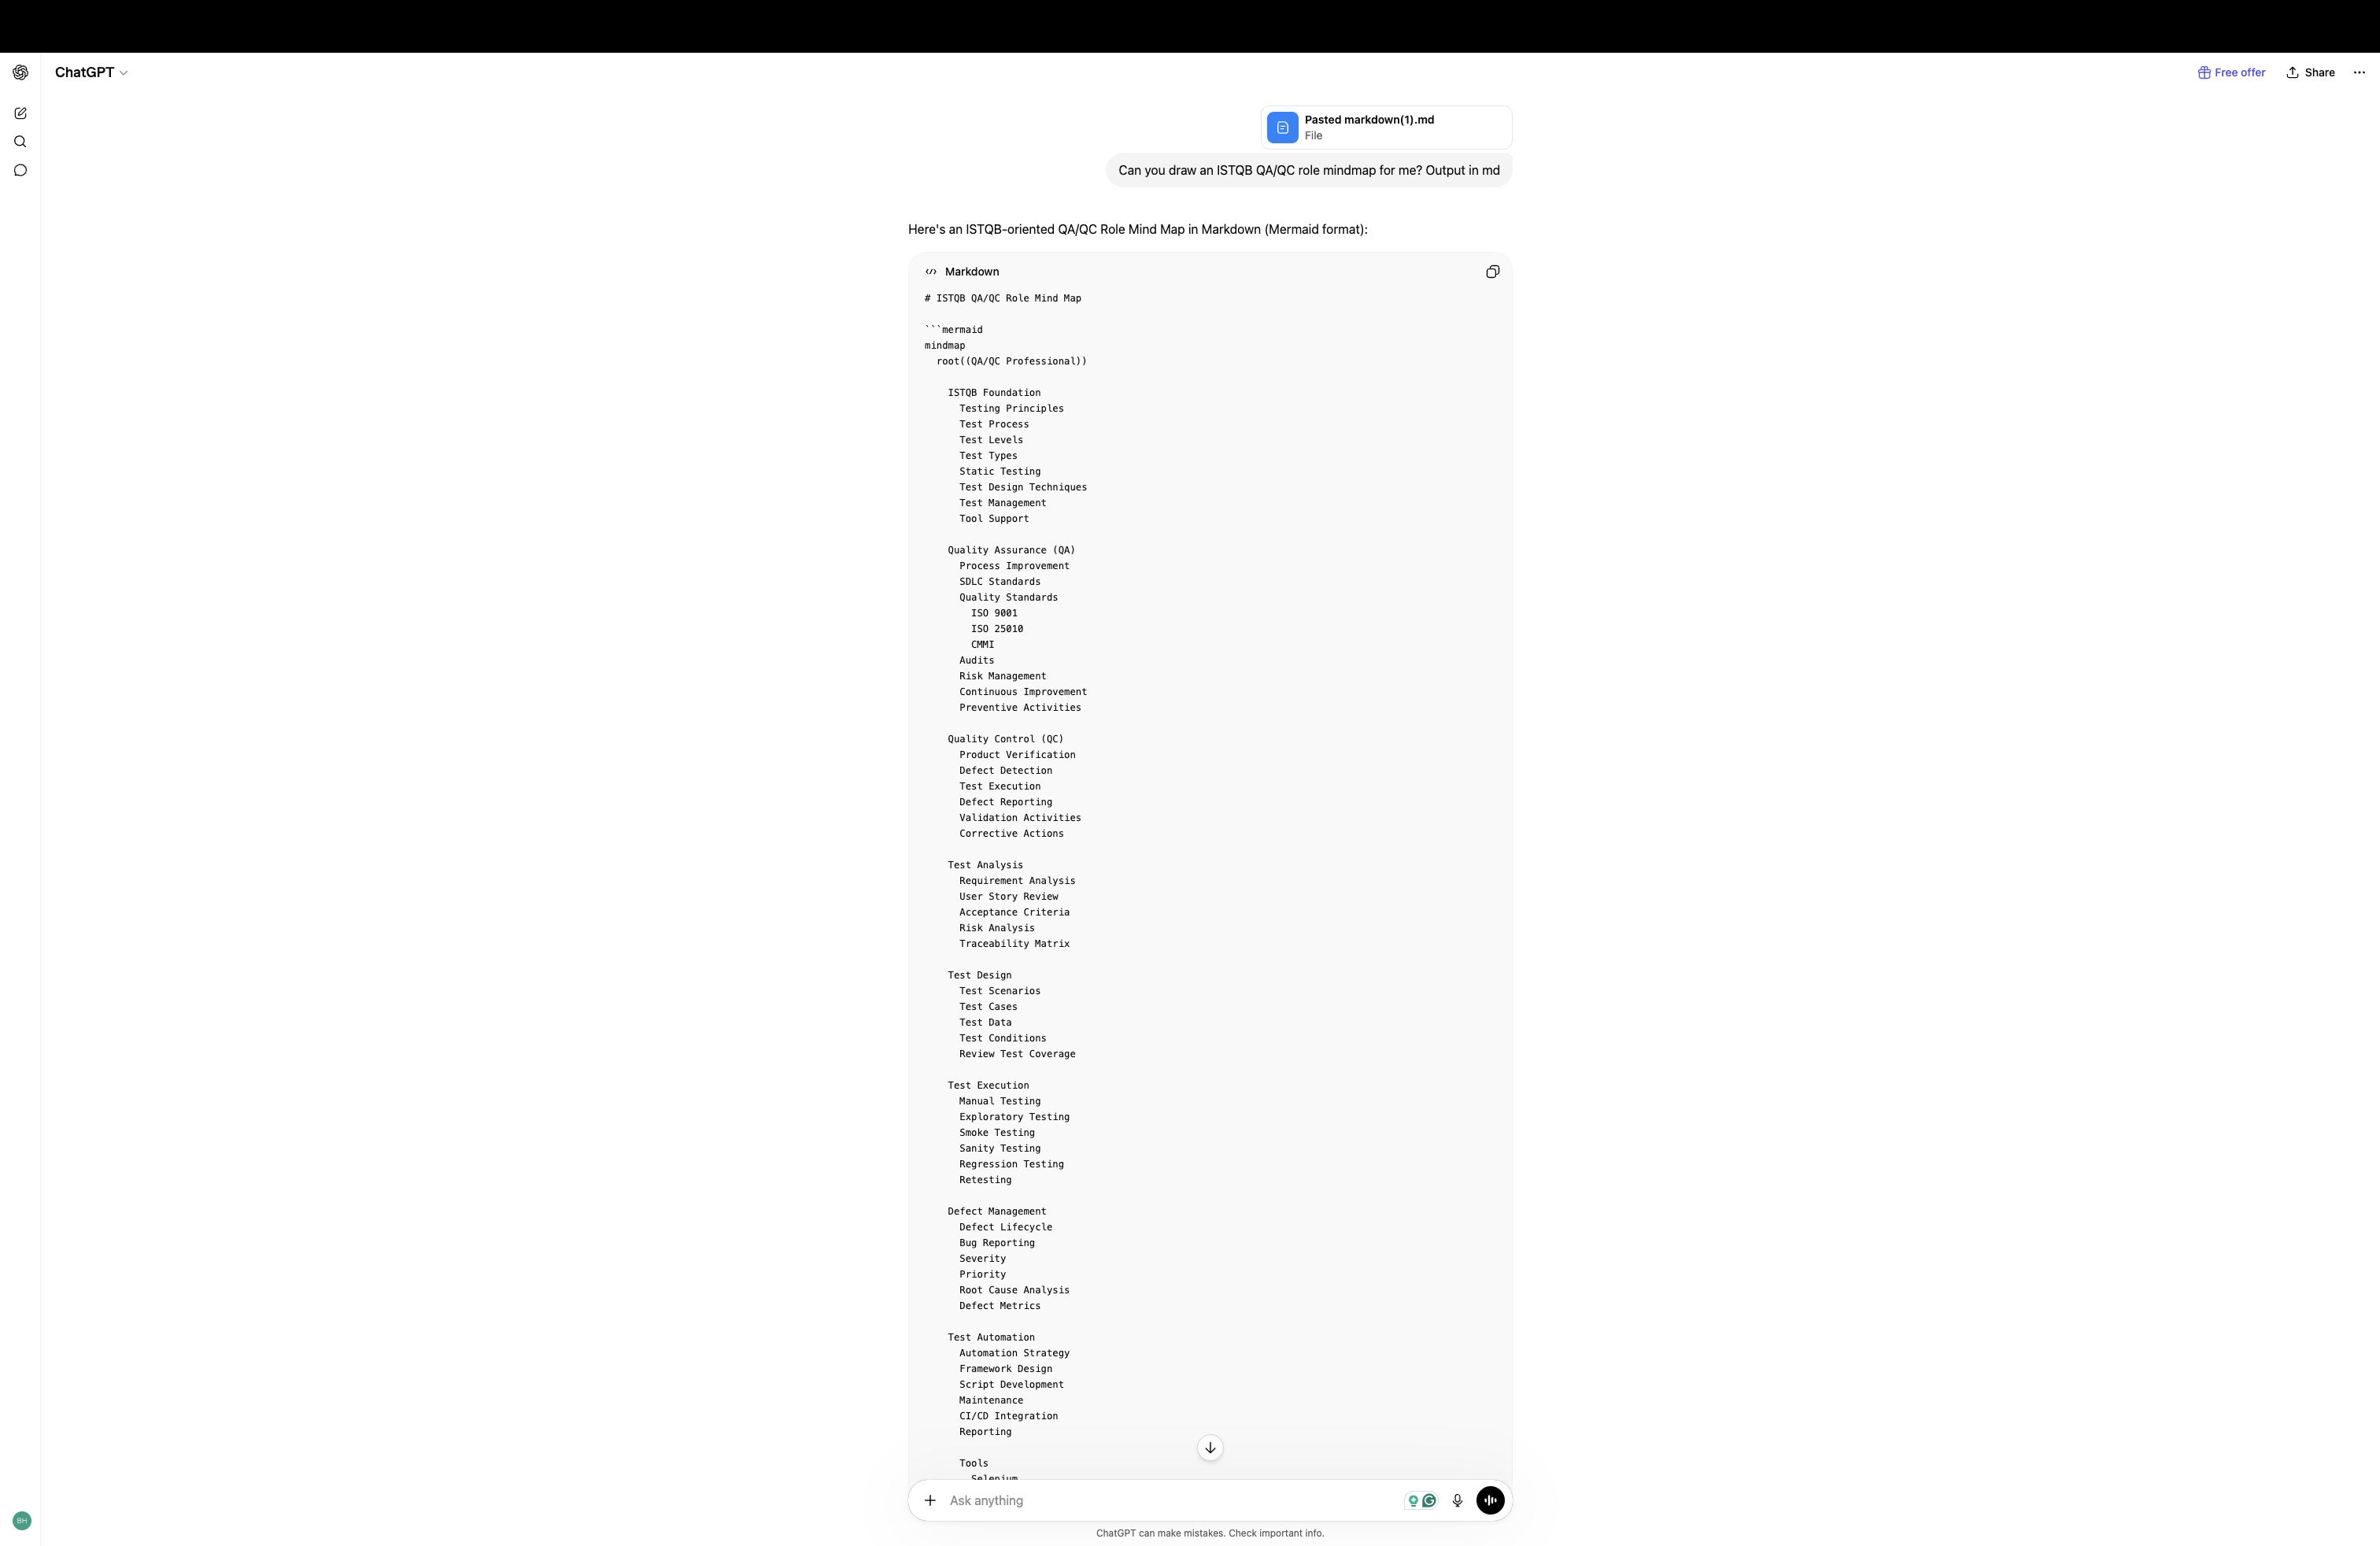
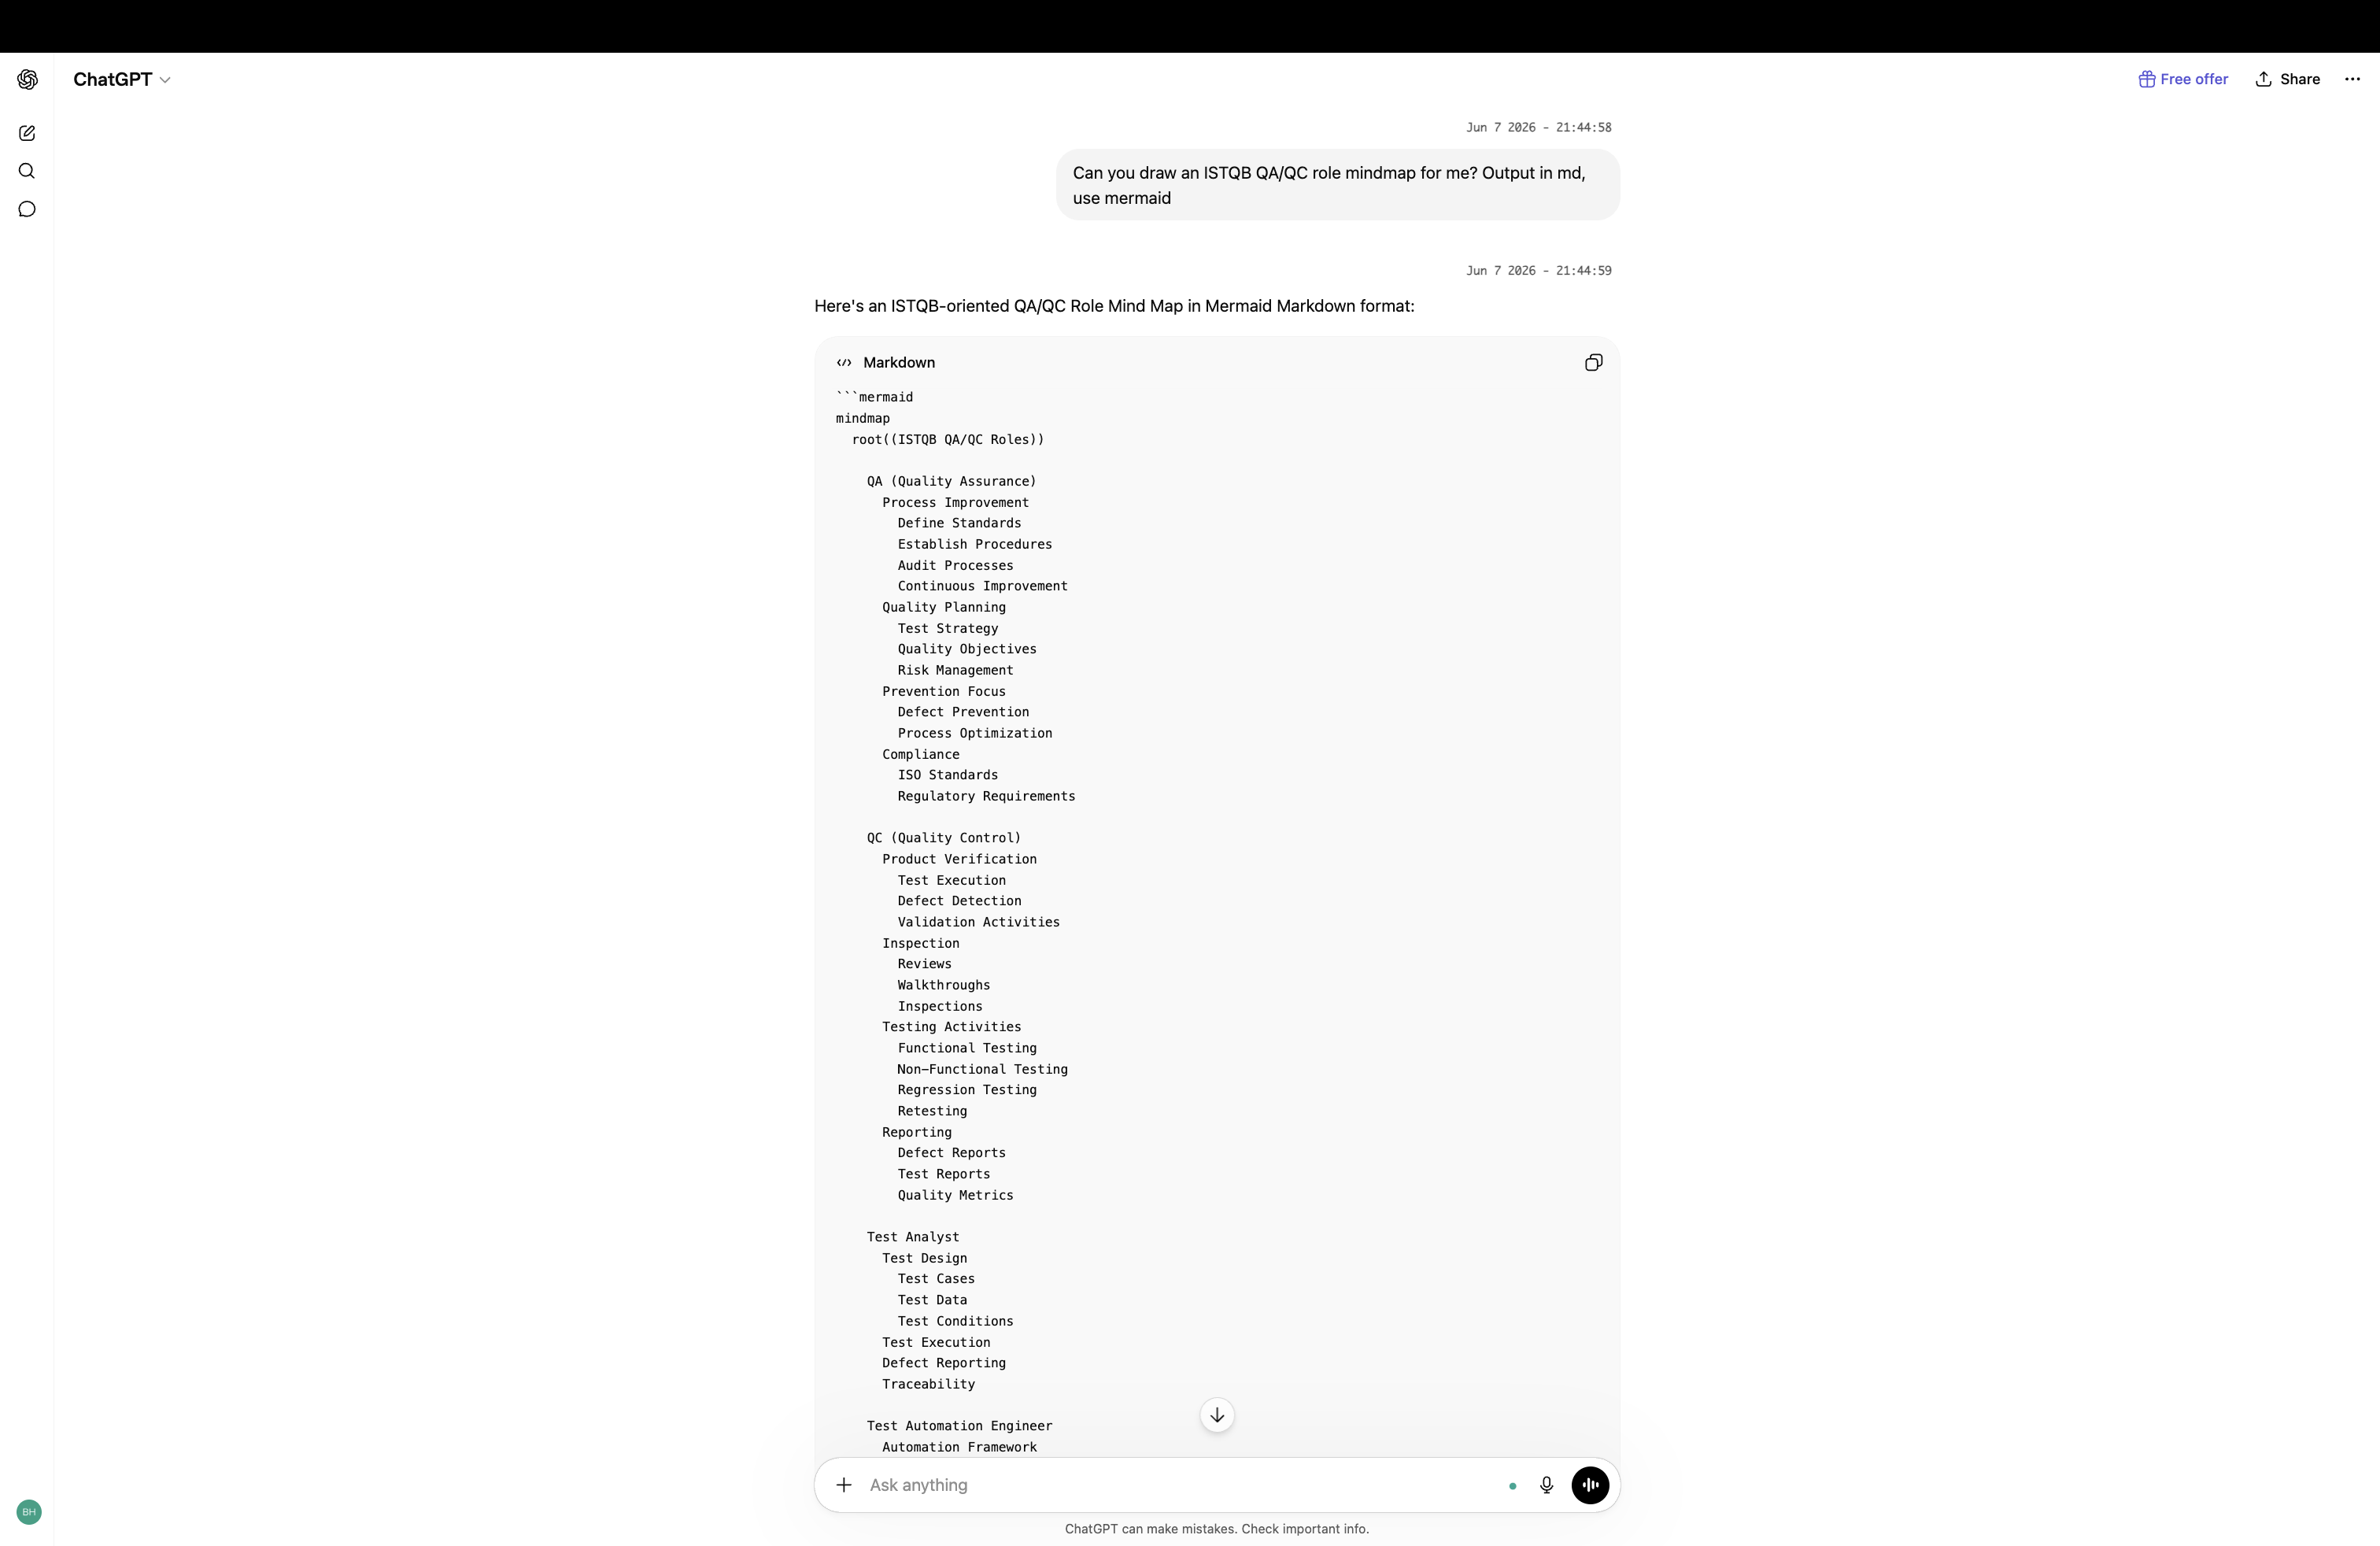
docs: update prompt log with complete conversation and notes

diff --git a/prompt_log.md b/prompt_log.md
@@ -266,7 +266,7 @@ Below is the complete chronological log of all prompts sent to AI tools during t
 
 ### ChatGPT
 
-**1. Timestamp: 22:36:45 05/06/2026**
+**1. Timestamp: 22:36 05/06/2026**
 **Prompt:**
 > explain these concepts for me:
 > - Air Canada Chatbot Hallucination (Moffatt v. Air Canada)
@@ -297,16 +297,14 @@ Below is the complete chronological log of all prompts sent to AI tools during t
 ![Red-bordered AI Output](./screenshots/prompt_log/chatgpt/7.png)
 ![Red-bordered AI Output](./screenshots/prompt_log/chatgpt/8.png)
 
-**2. Timestamp: 08:57:18 06/06/2026**
+**2. Timestamp: 21:44 07/06/2026** 
 **Prompt:**
-> Pasted markdown(1).md
-> File
-> Can you draw an ISTQB QA/QC role mindmap for me? Output in md
+> Can you draw an ISTQB QA/QC role mindmap for me? Output in md, use mermaid
 **Output:**
 ![Red-bordered AI Output](./screenshots/prompt_log/chatgpt/1.png)
 ![Red-bordered AI Output](./screenshots/prompt_log/chatgpt/2.png)
 
-**3. Timestamp: 09:54:40 06/06/2026**
+**3. Timestamp: 09:54 06/06/2026**
 **Prompt:**
 > design 15 test cases  Objective / Input / Steps / Expected / Actual / Verdict) for my household device: a pedestal fan
 **Output:**
@@ -357,29 +355,26 @@ Below is the complete chronological log of all prompts sent to AI tools during t
 **Output:**
 ![Red-bordered AI Output](./screenshots/prompt_log/gemini/7.png)
 
-
-**21. Timestamp: 07/06/2026**
-**Prompt:**
-> okay, for the requirement 3, i added here test_case_output.txt, the AI output and what to adjust, also i added the excel file for the test case, in Bản sao của KCPM-Week02-Test Cases-Template.xlsx, fill it in for me, the homework only mention the test cases, test summary report and checklist tab so dont need to fill in all, also i dont get whats the checklist in that requirement so its up to you. and i added the student id + device pic IMG_1424.JPG, the video i will record later. do the requirement 3 first, also read the ___2026.Homework.Policies (1).pdf, from what i get the requirement 3 will mostly in excel but the summary table in the report right?
-**Output:**
-> Claude Code reviewed the Requirement 3 materials and identified that the detailed work can stay in Excel, but the summary table must also be copied into the Markdown report according to the homework policy PDF.
-
-**22. Timestamp: 07/06/2026**
-**Prompt:**
-> first the checklist is really not in the template, so use your knowledge about testing to generate one, the tab must have the styles consistent with other tabs. Also the device to test is mitsubishi lv16rm, it cannot adjust the height and when we block its Oscillation by hand, after releasing it will continue to reach the max oscillation angle, write the expected as we want it to rotate the opposite after releasing so the test will fail. also after you're done update the prompt log accordingly prompt_log.md
-**Output:**
-> Claude Code generated a Requirement 3 workbook update plan based on the real device (Mitsubishi LV16-RM), then filled the Excel workbook’s relevant tabs (`Test Cases`, `Test Summary Report`, `Prompt History`) and added a new styled `Checklist` tab. It also updated the markdown report summary to include the Requirement 3 summary table and recorded the known oscillation-recovery failure as a deliberate failed case. The prompt log was then updated to reflect this Requirement 3 assistance session.
-
-
-**23. Timestamp: 07/06/2026**
-**Prompt:**
-> ok give me the script and also export it to md for easier look, and also in vietnamese. and then continue to document in prompt log
-**Output:**
-> Claude Code generated a Vietnamese speaking script for 5 Requirement 3 fan-test videos, exported it to `req3_video_script_vi.md`, and appended this new support step to `prompt_log.md`.
-
-### Antigravity IDE (Gemini 3.1 Pro)
 **Timestamp: 23:29 06/06/2026**
 **Prompt:**
 > read 2026.HW01.Jobs.Defects.PhysicalProduct_En.pdf, and write the prompt log in appendix as required (file: prompt_log.md, also fix the HW01_Report.md to link to that file), the materials for the prompt log i have prepared in prompt.txt, use those, polish my notes, but for the prompt kept as-is, also add this to the prompt log too
 **Output:**
-> The generation of this `prompt_log.md` file and modifications to `HW01_Report.md` and `QA_QC_Mindmap.md`.
+![Red-bordered AI Output](./screenshots/prompt_log/gemini/8.png)
+
+**Timestamp: 20:13 07/06/2026**
+**Prompt:**
+> i'm doing the homework described in 2026.HW01.Jobs.Defects.PhysicalProduct_En.pdf, now i need you to read the requirements thoroughly, also read the ___2026.Homework.Policies (1).pdf, and write the requirement 3 part in HW01_Report.md. Materials: KCPM-HW01-Test Cases.xlsx for the test cases, device info: mitsubishi lv16-rm. 
+**Output:**
+![Red-bordered AI Output](./screenshots/prompt_log/gemini/9.png)
+
+**Timestamp: 20:32 07/06/2026**
+**Prompt:**
+> serial number is 90402931
+**Output:**
+![Red-bordered AI Output](./screenshots/prompt_log/gemini/10.png)
+
+**Timestamp: 20:34 07/06/2026**
+**Prompt:**
+> good, update our conversation to prompt_log.md, note and i will handle the screenshot
+**Output:**
+![Red-bordered AI Output](./screenshots/prompt_log/gemini/11.png)